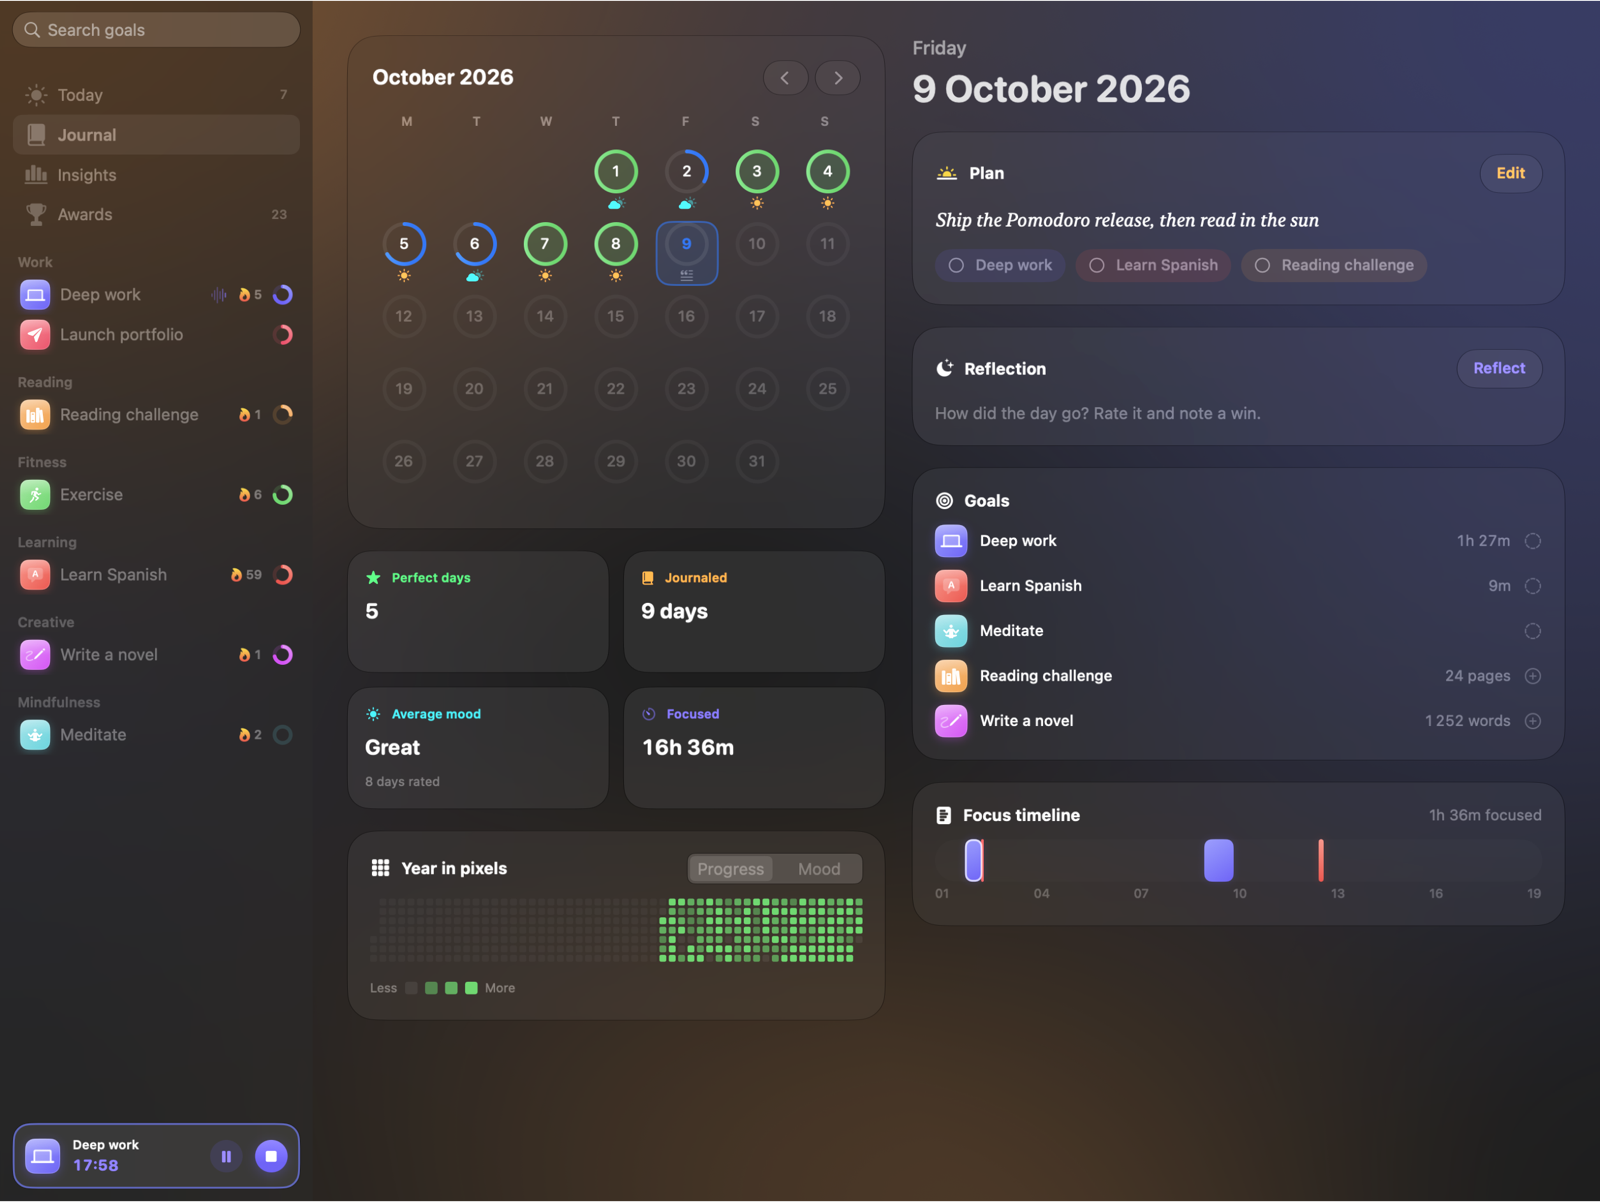
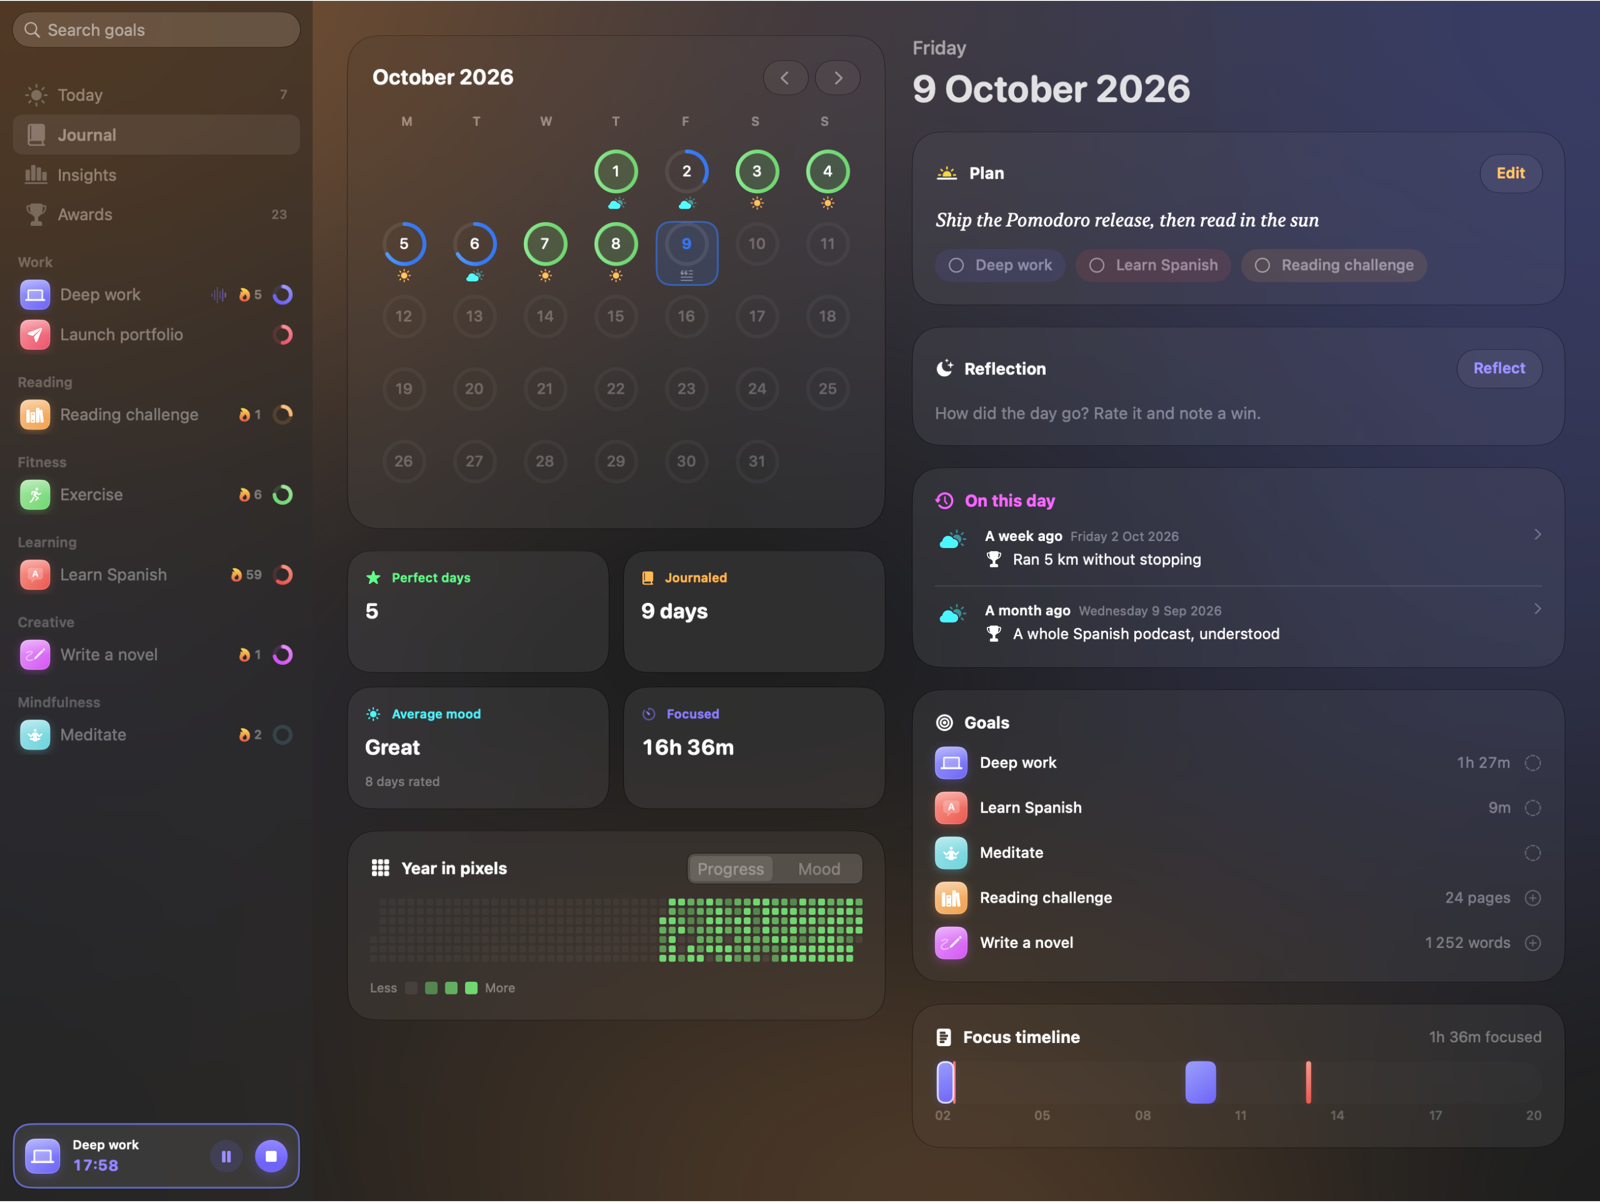
Bring back what you wrote on this day a week, a month and a year ago
Each day in the Journal shows the wins, intentions and reflections from the same date a week,
a month, a year and two years before; a tap opens that day.

diff --git a/SharedUI/Journal/JournalView.swift b/SharedUI/Journal/JournalView.swift
@@ -59,7 +59,7 @@ struct JournalView: View {
 
     private var dayColumn: some View {
         ScrollView {
-            DayDetail(day: selected)
+            DayDetail(day: selected) { day in select(day) }
                 .id(selected)
                 .transition(.asymmetric(insertion: .move(edge: movingForward ? .trailing : .leading).combined(with: .opacity),
                                         removal: .opacity))
@@ -250,6 +250,8 @@ private struct MonthStats: View {
 private struct DayDetail: View {
     @Environment(GoalStore.self) private var store
     let day: Date
+    /// Opens another day, from "On this day".
+    var onSelect: (Date) -> Void = { _ in }
 
     var body: some View {
         let engine = store.engine
@@ -320,6 +322,10 @@ private struct DayDetail: View {
                     }
                 }
 
+                let memories = store.data.memories(for: id)
+                if !memories.isEmpty {
+                    OnThisDayCard(memories: memories, onSelect: onSelect)
+                }
                 if !summary.due.isEmpty || !summary.active.isEmpty {
                     DayGoals(summary: summary)
                 }
@@ -351,6 +357,73 @@ private struct DayDetail: View {
         }
         .frame(maxWidth: .infinity, alignment: .leading)
         .glassCard(tint: tint, cornerRadius: 22)
+    }
+}
+
+/// What was written on this date a week, a month and a year back.
+private struct OnThisDayCard: View {
+    let memories: [JournalMemory]
+    let onSelect: (Date) -> Void
+
+    var body: some View {
+        VStack(alignment: .leading, spacing: 12) {
+            Label("On this day", systemImage: "clock.arrow.circlepath")
+                .font(.headline)
+                .foregroundStyle(.purple)
+            ForEach(memories) { memory in
+                Button {
+                    onSelect(memory.entry.day.date())
+                } label: {
+                    row(memory)
+                }
+                .buttonStyle(.plain)
+                .help("Open \(memory.entry.day.date().formatted(date: .complete, time: .omitted))")
+                if memory.id != memories.last?.id {
+                    Divider()
+                }
+            }
+        }
+        .frame(maxWidth: .infinity, alignment: .leading)
+        .glassCard(tint: .purple, cornerRadius: 22)
+    }
+
+    private func row(_ memory: JournalMemory) -> some View {
+        let entry = memory.entry
+        return HStack(alignment: .top, spacing: 12) {
+            Image(systemName: entry.mood?.symbolName ?? "book.closed.fill")
+                .symbolRenderingMode(.hierarchical)
+                .foregroundStyle(entry.mood?.tint ?? .purple)
+                .font(.title3)
+                .frame(width: 28)
+            VStack(alignment: .leading, spacing: 3) {
+                HStack(spacing: 6) {
+                    Text(memory.span.title)
+                        .font(.subheadline.weight(.semibold))
+                    Text(entry.day.date(), format: .dateTime.weekday(.wide).month(.abbreviated).day().year())
+                        .font(.caption)
+                        .foregroundStyle(.secondary)
+                }
+                if !entry.win.isEmpty {
+                    Label(entry.win, systemImage: "trophy.fill")
+                        .symbolRenderingMode(.multicolor)
+                        .font(.callout)
+                } else if !entry.intention.isEmpty {
+                    Text(entry.intention)
+                        .font(.system(.callout, design: .serif).italic())
+                }
+                if !entry.reflection.isEmpty {
+                    Text(entry.reflection)
+                        .font(.callout)
+                        .foregroundStyle(.secondary)
+                        .lineLimit(2)
+                }
+            }
+            Spacer(minLength: 0)
+            Image(systemName: "chevron.right")
+                .font(.caption.weight(.semibold))
+                .foregroundStyle(.tertiary)
+        }
+        .contentShape(Rectangle())
     }
 }
 

diff --git a/Packages/MomentumKit/Sources/MomentumCore/Engine/Memories.swift b/Packages/MomentumKit/Sources/MomentumCore/Engine/Memories.swift
@@ -1,0 +1,50 @@
+import Foundation
+
+/// A journal entry from the same date some time back: "a year ago today".
+public struct JournalMemory: Equatable, Identifiable, Sendable {
+    public enum Span: Int, CaseIterable, Sendable {
+        case week, month, year, twoYears
+
+        public var title: String {
+            switch self {
+            case .week: "A week ago"
+            case .month: "A month ago"
+            case .year: "A year ago"
+            case .twoYears: "Two years ago"
+            }
+        }
+
+        var components: DateComponents {
+            switch self {
+            case .week: DateComponents(day: -7)
+            case .month: DateComponents(month: -1)
+            case .year: DateComponents(year: -1)
+            case .twoYears: DateComponents(year: -2)
+            }
+        }
+    }
+
+    public let span: Span
+    public let entry: JournalEntry
+
+    public var id: DayID { entry.day }
+}
+
+extension AppData {
+    /// What was written on the same date a week, a month, a year and two years before `day`:
+    /// only days with something to read again (a win, a reflection or an intention).
+    public func memories(for day: DayID) -> [JournalMemory] {
+        var calendar = Calendar(identifier: .gregorian)
+        calendar.timeZone = TimeZone(identifier: "UTC") ?? .gmt
+        guard let date = calendar.date(from: DateComponents(year: day.year, month: day.month, day: day.day)) else { return [] }
+        let byDay = Dictionary(journal.map { ($0.day, $0) }, uniquingKeysWith: { first, _ in first })
+        return JournalMemory.Span.allCases.compactMap { span in
+            guard let past = calendar.date(byAdding: span.components, to: date) else { return nil }
+            let parts = calendar.dateComponents([.year, .month, .day], from: past)
+            guard let year = parts.year, let month = parts.month, let dayOfMonth = parts.day,
+                  let entry = byDay[DayID(year: year, month: month, day: dayOfMonth)],
+                  !entry.win.isEmpty || !entry.reflection.isEmpty || !entry.intention.isEmpty else { return nil }
+            return JournalMemory(span: span, entry: entry)
+        }
+    }
+}

diff --git a/Packages/MomentumKit/Tests/MomentumCoreTests/MemoriesTests.swift b/Packages/MomentumKit/Tests/MomentumCoreTests/MemoriesTests.swift
@@ -1,0 +1,35 @@
+import Foundation
+import Testing
+@testable import MomentumCore
+
+@Suite("Journal memories")
+struct MemoriesTests {
+    private func entry(_ day: DayID, win: String = "", mood: Mood? = nil) -> JournalEntry {
+        var entry = JournalEntry(day: day)
+        entry.win = win
+        entry.mood = mood
+        return entry
+    }
+
+    @Test("Days a week, a month and a year back come up, newest first, if there's something to read")
+    func memories() {
+        var data = AppData()
+        data.journal = [
+            entry(DayID(year: 2026, month: 10, day: 1), win: "Shipped the widget"),
+            entry(DayID(year: 2026, month: 9, day: 8), win: "First 5k"),
+            entry(DayID(year: 2025, month: 10, day: 8), win: "Started Spanish"),
+            // A mood alone isn't something to read again.
+            entry(DayID(year: 2024, month: 10, day: 8), mood: .good),
+        ]
+        let memories = data.memories(for: DayID(year: 2026, month: 10, day: 8))
+        #expect(memories.map(\.span) == [.week, .month, .year])
+        #expect(memories.map(\.entry.win) == ["Shipped the widget", "First 5k", "Started Spanish"])
+    }
+
+    @Test("A month back from the 31st lands on the last day of a shorter month")
+    func shortMonth() {
+        var data = AppData()
+        data.journal = [entry(DayID(year: 2026, month: 2, day: 28), win: "Leap")]
+        #expect(data.memories(for: DayID(year: 2026, month: 3, day: 31)).map(\.span) == [.month])
+    }
+}
